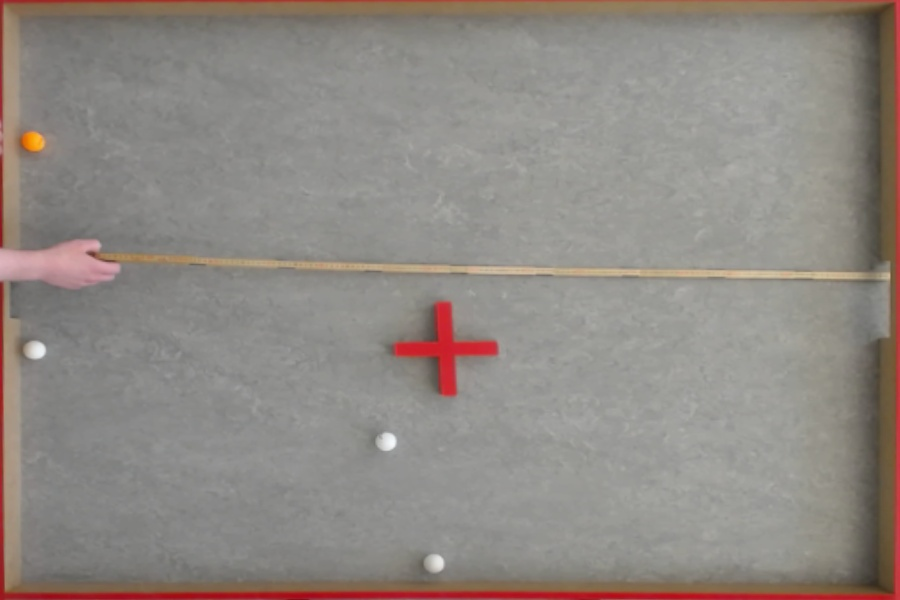
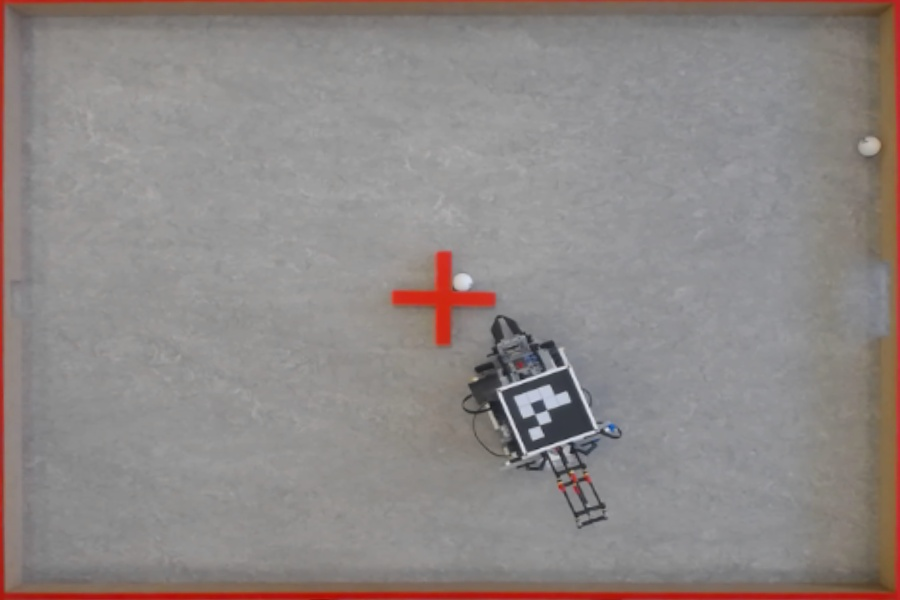
correct staging around cross

diff --git a/controller/state_machine.py b/controller/state_machine.py
@@ -316,7 +316,8 @@ class GolfBotController:
         log.debug("staging path: %s",
                   "  ->  ".join(f"({w[0]:.0f},{w[1]:.0f})" for w in waypoints))
 
-        # If the cross blocks the path to the first staging point, prepend a dodge.
+        # If the cross blocks the path to the first staging point, route around it
+        # using the 4 fixed cardinal avoid points (same logic as _cross_blocks_path).
         cross_px = world.cross_px if world is not None else None
         if cross_px is not None:
             staging_pt = self._avoid_target
@@ -325,13 +326,50 @@ class GolfBotController:
                       pose.px[0], pose.px[1], staging_pt[0], staging_pt[1],
                       "clear" if staging_clear else "BLOCKED")
             if not staging_clear:
-                dodge = obstacle_waypoint(pose.px, staging_pt, cross_px,
-                                          AVOID_WAYPOINT_DIST_PX, WARPED_WIDTH, WARPED_HEIGHT)
-                if dodge is not None:
+                avoid_map = cross_avoid_points(cross_px, WARPED_WIDTH, WARPED_HEIGHT)
+                avoid_pts = list(avoid_map.values())
+
+                def _clr(a, b):
+                    ok, _ = path_is_clear(a, b, [cross_px], CROSS_CLEARANCE_PX)
+                    return ok
+
+                def _dst(a, b):
+                    return math.hypot(a[0] - b[0], a[1] - b[1])
+
+                # Try single avoid point: robot → pt → staging.
+                route = None
+                single = [pt for pt in avoid_pts if _clr(pt, staging_pt)]
+                single.sort(key=lambda pt: _dst(pose.px, pt))
+                for pt in single:
+                    if _clr(pose.px, pt):
+                        route = [pt]
+                        log.info("Cross blocks staging — single avoid point (%.0f,%.0f) → staging=(%.0f,%.0f)",
+                                 pt[0], pt[1], staging_pt[0], staging_pt[1])
+                        break
+
+                # Try two avoid points: robot → pt1 → pt2 → staging.
+                if route is None:
+                    pairs = [
+                        (pt1, pt2)
+                        for pt1 in avoid_pts for pt2 in avoid_pts
+                        if pt1 is not pt2
+                        and _clr(pose.px, pt1)
+                        and _clr(pt1, pt2)
+                        and _clr(pt2, staging_pt)
+                    ]
+                    if pairs:
+                        pt1, pt2 = min(pairs, key=lambda p: _dst(pose.px, p[0]) + _dst(p[0], p[1]))
+                        route = [pt1, pt2]
+                        log.info("Cross blocks staging — two avoid points (%.0f,%.0f)→(%.0f,%.0f) → staging=(%.0f,%.0f)",
+                                 pt1[0], pt1[1], pt2[0], pt2[1], staging_pt[0], staging_pt[1])
+
+                if route is not None:
                     self._corner_waypoints.insert(0, staging_pt)
-                    self._avoid_target = dodge
-                    log.info("Cross blocks path to staging — dodge inserted at (%.0f,%.0f), staging=(%.0f,%.0f)",
-                             dodge[0], dodge[1], staging_pt[0], staging_pt[1])
+                    self._avoid_target = route[0]
+                    for extra in reversed(route[1:]):
+                        self._corner_waypoints.insert(0, extra)
+                else:
+                    log.warning("Cross blocks staging but no avoid route found — proceeding anyway")
 
         return State.AVOID
 
@@ -454,6 +492,8 @@ class GolfBotController:
             self._driver.reverse(px_to_rotations(STAGING_DISTANCE_PX/2))
             self._is_wall_ball = False
             
+        robot.collect()
+        time.sleep(0.2)   
         robot.reset_claw()
 
         self._transition(State.SEEK)

diff --git a/config.py b/config.py
@@ -62,7 +62,7 @@ GOAL_HEADING_TOL_DEG = 5.0    # tolerance either side of GOAL_HEADING_DEG
 REVERSE_ROTATIONS = 1.0      # how far to back up when no balls are visible
 MAX_DRIVE_PX      = 80       # cap on drive distance per cycle, so we re-check often
 
-CROSS_CLEARANCE_PX     = 70                       # stay at least this far from the cross centre
+CROSS_CLEARANCE_PX     = 100                       # stay at least this far from the cross centre
                                                   # cross is 10 cm radius ≈ 53 px + ~17 px robot buffer
 AVOID_WAYPOINT_DIST_PX = CROSS_CLEARANCE_PX * 2  # how far to the side the dodge waypoint sits
 AVOID_ARRIVE_PX        = 15                      # close enough to a waypoint to count as reached
@@ -104,9 +104,9 @@ CLASS_NAMES = {
 # on ESC from main.py, writes the learned values back here (see
 # controller/calibration_tracker.save_calibration_to_config). Turn calibration
 # is tracked separately per direction because the robot can turn asymmetrically.
-PIXELS_PER_ROTATION        = 63.32   # pixels travelled per motor rotation (measured)
-DEGREES_PER_ROTATION_LEFT  = 28.33   # degrees turned per motor rotation, turning LEFT
-DEGREES_PER_ROTATION_RIGHT = 34.47   # degrees turned per motor rotation, turning RIGHT
+PIXELS_PER_ROTATION        = 64.00   # pixels travelled per motor rotation (measured)
+DEGREES_PER_ROTATION_LEFT  = 30.29   # degrees turned per motor rotation, turning LEFT
+DEGREES_PER_ROTATION_RIGHT = 34.32   # degrees turned per motor rotation, turning RIGHT
 
 # Ignore ball detections within this radius of the robot (false positives).
 ROBOT_FILTER_RADIUS_PX = 30   # pixels in the warped image

diff --git a/controller/navigation.py b/controller/navigation.py
@@ -144,7 +144,7 @@ def cross_approach_angle(ball_px, cross_px):
     raw = math.degrees(math.atan2(dy, dx))   # direction cross→ball
     approach = raw + 180.0                   # robot faces the opposite way
     # Snap only to the diagonals: 45, 135, -45, -135 (gaps between cross legs)
-    snapped = math.floor((approach + 45.0) / 90.0) * 90.0 + 45.0
+    snapped = round((approach - 45.0) / 90.0) * 90.0 + 45.0
     # Normalise to (-180, 180]
     while snapped >  180.0: snapped -= 360.0
     while snapped <= -180.0: snapped += 360.0

diff --git a/robot/ev3_server.py b/robot/ev3_server.py
@@ -92,6 +92,10 @@ while True:
             gate.rotate(0.5, speed=100)
             conn.sendall(b"OK")
             
+        elif cmd == "GATE_ROTATE":
+            gate.rotate(1.0, speed=100)   # one full 360° rotation
+            conn.sendall(b"OK")
+
         elif cmd == "RESET_CLAW":
             claw.reset_claw()
             conn.sendall(b"OK")
